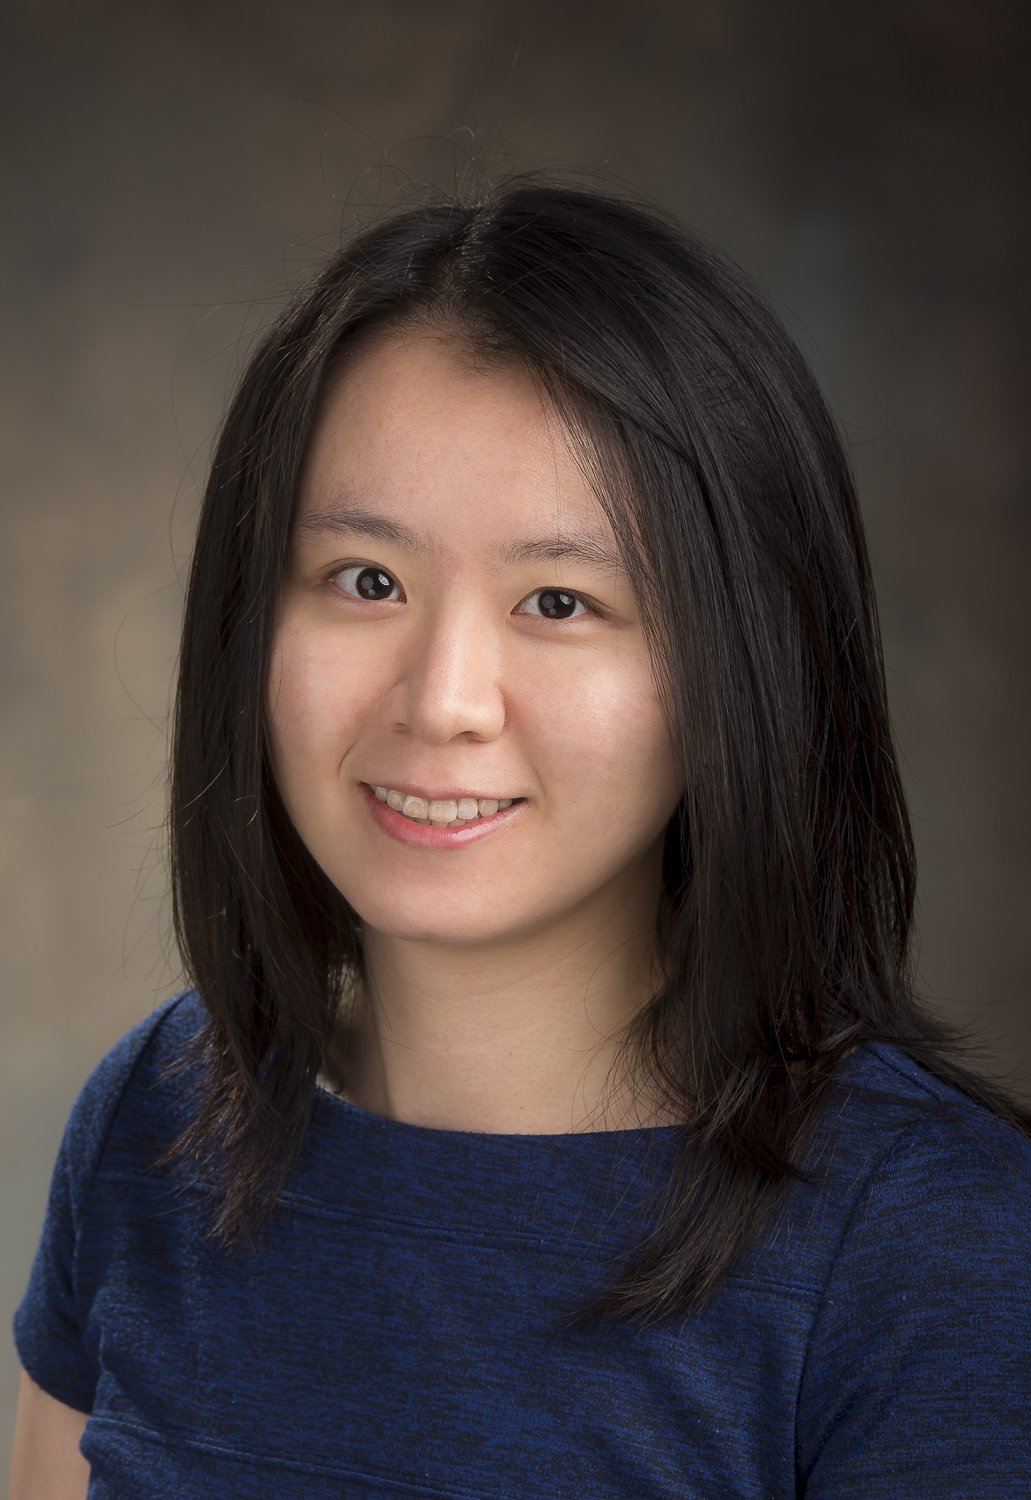
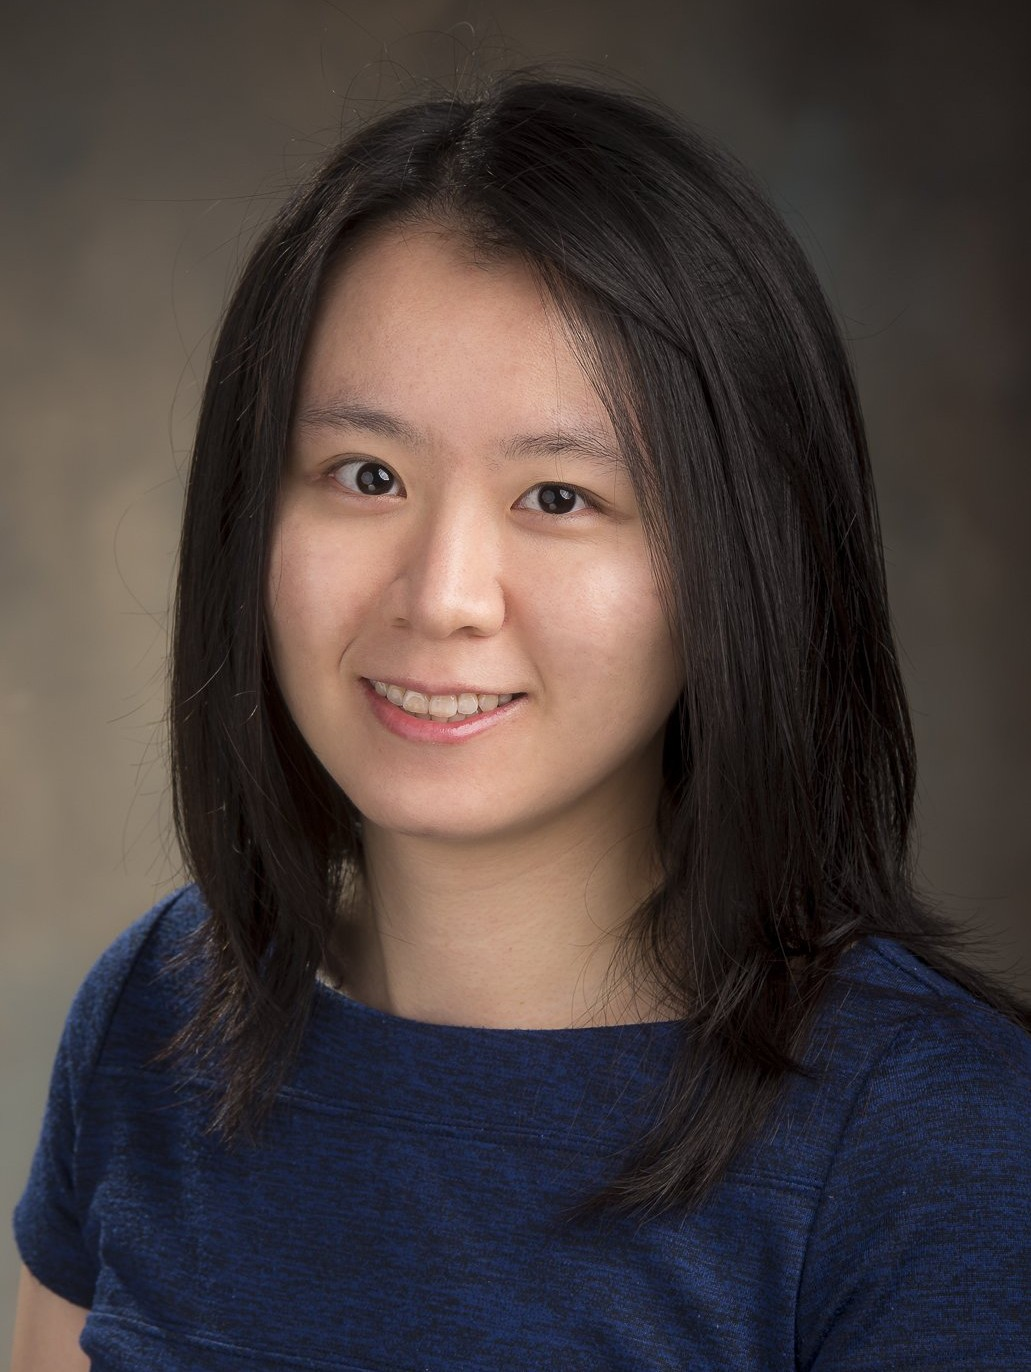
Update Bio & Pic

diff --git a/_pages/about.md b/_pages/about.md
@@ -2,7 +2,7 @@
 layout: about
 title: about
 permalink: /
-subtitle: <a href='#'>Affiliations</a>. Address. Contacts. Motto. Etc.
+subtitle: Ph.D. in Statistics #<a href='#'>Affiliations</a>. Address. Contacts. Motto. Etc.
 
 profile:
   align: right
@@ -26,6 +26,14 @@ latest_posts:
   scrollable: true # adds a vertical scroll bar if there are more than 3 new posts items
   limit: 3 # leave blank to include all the blog posts
 ---
+
+Hi, and welcome! I'm glad you stopped by!
+
+I am an Assistant Professor of Statistics at Fuzhou University in Fuzhou, China. I received my Ph.D. in Statistics from Simon Fraser University under the supervision of Prof. Jiguo Cao and Prof. C\'edric Beaulac, and previously earned my master's degree in Statistics from the George Washington University.
+
+My research lies at the intersection of statistics and machine learning, with a particular interest in functional data analysis, survival analysis, and image data analysis. I enjoy developing statistical methods that address real-world problems and exploring how modern machine learning techniques can enhance classical statistical models.
+
+I hope you enjoy looking around my website. Thanks for visiting, and feel free to reach out if you'd like to chat about research, collaboration, or statistics--I’d love to hear from you!
 
 Write your biography here. Tell the world about yourself. Link to your favorite [subreddit](http://reddit.com). You can put a picture in, too. The code is already in, just name your picture `prof_pic.jpg` and put it in the `img/` folder.
 

diff --git a/_pages/about_einstein.md b/_pages/about_einstein.md
@@ -1,7 +1,4 @@
-Hi, and thank you for stoppping by! 
-
-I am currently an Assistant Professor of Statistics at Fuzhou University in Fuzhou, China. I received my Ph.D. in Statistics from Simon Fraser University, where I was supervised by Prof. Jiguo Cao and Prof. Cedric Beaulac. Prior to that, I completed my master's degree in Statistics at the George Washington University.
-
+Hello!
 
 Write your biography here. Tell the world about yourself. Link to your favorite [subreddit](http://reddit.com). You can put a picture in, too. The code is already in, just name your picture `prof_pic.jpg` and put it in the `img/` folder.
 
